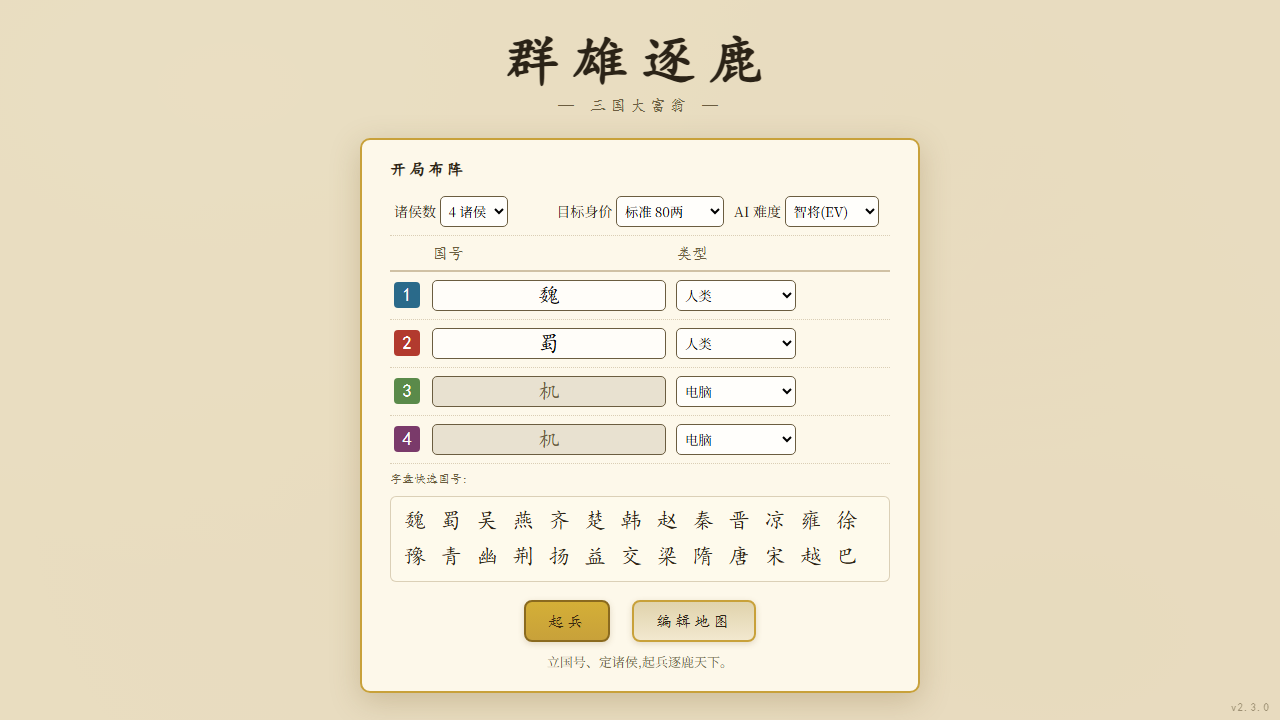
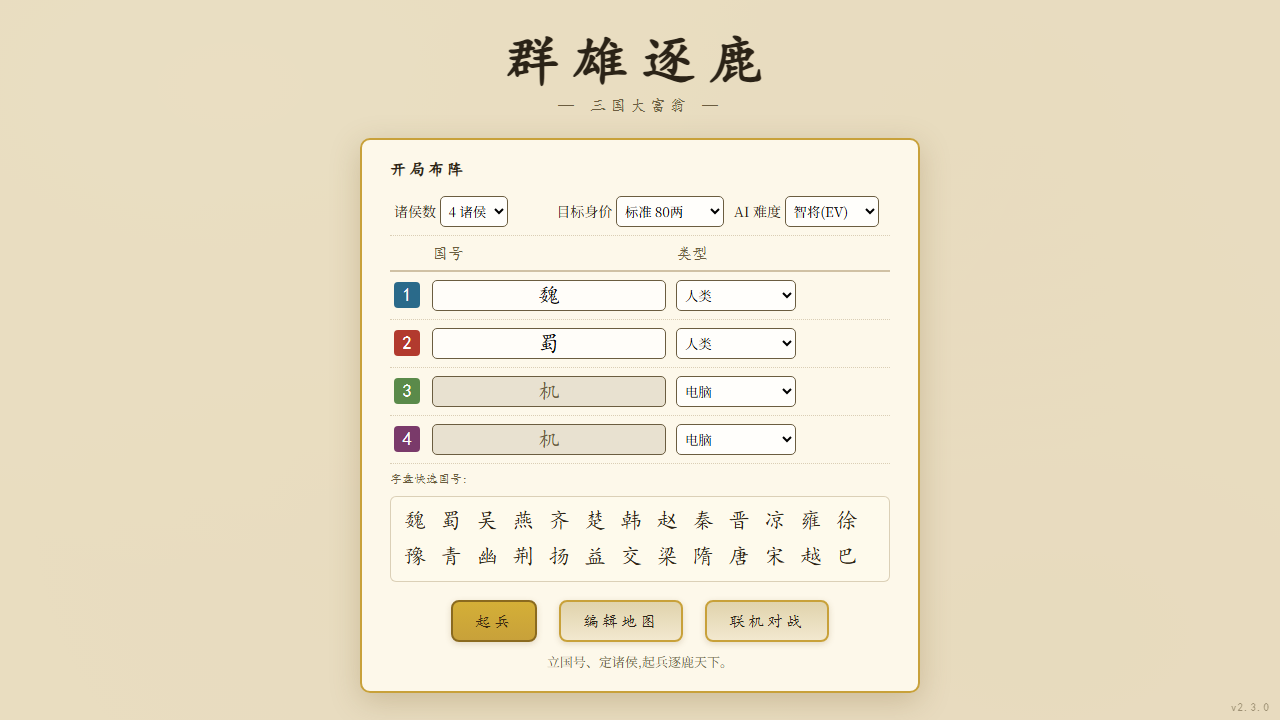
test(e2e): 联机 e2e + 联机入口非侵入化(任务 4.3)
- e2e/online.spec.ts:建房 vs bot → 开局 → 掷骰(snapshot 驱动渲染)+ REST 加入/FCFS 断言
- playwright.config:加引擎服务器为第二个 webServer(3010,托管 dist + WS)
- main.ts:撤掉模式选择屏(它会 gate 既有热座 e2e),改 ?online=1 直链 + 设置屏「联机对战」按钮
- ui.ts:createSetupScreen 加 onOnline 回调 + 按钮
- .gitignore:rooms/ tmp/;更新设置屏截图(新增联机按钮)

全 e2e 23 passed(21 热座 + 2 联机),无回归

Changed region(s): [[0.3438, 0.825, 0.6562, 0.9167]]

diff --git a/src/main.ts b/src/main.ts
@@ -1,11 +1,11 @@
-// 入口:加载样式 → 模式选择(热座 / 联机)→ 进入对局。
+// 入口:加载样式 → 显示开局设置屏 → 创建 App 进入对局。
+// 联机:设置屏「联机对战」按钮,或 URL ?online=1(便于 e2e / 直链)。
 import "./render/style.css";
 import { createSetupScreen } from "./render/ui";
 import { createEditor } from "./render/editor";
 import type { SetupResult } from "./render/ui";
 import { App } from "./render/state";
 import { NetworkClient } from "./render/network-client";
-import { el } from "./render/dom";
 import { VERSION } from "./version";
 import { loadMap } from "./core/board-loader";
 
@@ -20,7 +20,7 @@ verTag.style.cssText =
   "opacity:.6;font-family:var(--font-deco,serif);pointer-events:none;z-index:9999;letter-spacing:1px;";
 document.body.appendChild(verTag);
 
-/** 运行时 fetch 地图 JSON:改 public/maps/*.json 后刷新页面即生效,无需 rebuild。 */
+/** 运行时 Fetch 地图 JSON:改 public/maps/*.json 后刷新页面即生效,无需 rebuild。 */
 async function loadDefaultMap() {
   // 优先用编辑器保存的自定义地图;没有才用内置 sanguo.json
   const saved = localStorage.getItem("dafung-custom-map");
@@ -39,81 +39,77 @@ async function loadDefaultMap() {
   return loadMap(await res.json());
 }
 
-function bootstrap() {
-  root.innerHTML = "";
-  // 模式选择:热座(单设备轮流) / 联机(每人一设备,经服务器)
-  const hotseatBtn = el("button", { class: "btn btn-primary" }, ["热座(本地)"]) as HTMLButtonElement;
-  const onlineBtn = el("button", { class: "btn" }, ["联机(在线)"]) as HTMLButtonElement;
-  const overlay = el("div", { class: "scroll-overlay" }, [
-    el("div", { class: "scroll", style: "max-width:340px;text-align:center;" }, [
-      el("h2", { class: "scroll-title" }, ["群雄逐鹿"]),
-      el("p", { style: "color:var(--ink-dim,#9c6b3f);" }, ["选择对局模式"]),
-      el("div", { class: "choices", style: "flex-direction:column;gap:10px;" }, [hotseatBtn, onlineBtn]),
-    ]),
-  ]);
-  hotseatBtn.addEventListener("click", () => {
-    overlay.remove();
-    showHotseatSetup();
-  });
-  onlineBtn.addEventListener("click", async () => {
-    overlay.remove();
-    try {
-      const map = await loadDefaultMap();
-      root.innerHTML = "";
-      new NetworkClient(map, location.origin);
-    } catch (err) {
-      root.innerHTML = `<div style="padding:40px;color:#b23a2e;font-family:serif">地图加载失败:${(err as Error).message}</div>`;
-    }
-  });
-  root.appendChild(overlay);
+function mapLoadError(err: unknown) {
+  root.innerHTML = `<div style="padding:40px;color:#b23a2e;font-family:serif">地图加载失败:${(err as Error).message}</div>`;
 }
 
-function showHotseatSetup() {
-  root.innerHTML = "";
-  createSetupScreen(root, async (r: SetupResult) => {
+/** 进入联机:加载地图 → network-client(它自带 connect/lobby 屏)。 */
+async function enterOnline() {
+  try {
+    const map = await loadDefaultMap();
     root.innerHTML = "";
-    const seedParam = new URLSearchParams(location.search).get("seed");
-    const seed = seedParam ? parseInt(seedParam, 10) : undefined;
-    try {
-      const map = await loadDefaultMap();
-      new App({
-        seats: r.seats,
-        targetNetWorth: r.targetNetWorth,
-        startingCash: r.startingCash,
-        difficulty: r.difficulty,
-        seed,
-        map,
-      });
-    } catch (err) {
-      root.innerHTML = `<div style="padding:40px;color:#b23a2e;font-family:serif">地图加载失败:${(err as Error).message}</div>`;
-    }
-  },
-  // 「编辑地图」入口:加载内置地图 JSON 进入编辑器
-  async () => {
-    try {
-      const saved = localStorage.getItem("dafung-custom-map");
-      const data = saved ? JSON.parse(saved) : await (await fetch("/maps/sanguo.json")).json();
-      createEditor(root, data, () => bootstrap(), async (mapData) => {
-        try {
-          root.innerHTML = "";
-          new App({
-            seats: [
-              { name: "诸侯1", isBot: false, guohao: "魏" },
-              { name: "诸侯2", isBot: true },
-            ],
-            targetNetWorth: mapData.targetNetWorth,
-            startingCash: mapData.startingCash,
-            difficulty: "Normal",
-            map: loadMap(mapData),
-          });
-        } catch (err) {
-          root.innerHTML = `<div style="padding:40px;color:#b23a2e;font-family:serif">地图加载失败:${(err as Error).message}</div>`;
-        }
-      });
-    } catch (err) {
-      root.innerHTML = `<div style="padding:40px;color:#b23a2e;font-family:serif">地图加载失败:${(err as Error).message}</div>`;
-    }
-  });
+    new NetworkClient(map, location.origin);
+  } catch (err) {
+    mapLoadError(err);
+  }
+}
+
+function bootstrap() {
+  root.innerHTML = "";
+  // 直链 / e2e:?online=1 跳过设置屏直接联机
+  if (new URLSearchParams(location.search).has("online")) {
+    void enterOnline();
+    return;
+  }
+  createSetupScreen(
+    root,
+    async (r: SetupResult) => {
+      root.innerHTML = "";
+      const seedParam = new URLSearchParams(location.search).get("seed");
+      const seed = seedParam ? parseInt(seedParam, 10) : undefined;
+      try {
+        const map = await loadDefaultMap();
+        new App({
+          seats: r.seats,
+          targetNetWorth: r.targetNetWorth,
+          startingCash: r.startingCash,
+          difficulty: r.difficulty,
+          seed,
+          map,
+        });
+      } catch (err) {
+        mapLoadError(err);
+      }
+    },
+    // 「编辑地图」入口:加载内置地图 JSON 进入编辑器
+    async () => {
+      try {
+        const saved = localStorage.getItem("dafung-custom-map");
+        const data = saved ? JSON.parse(saved) : await (await fetch("/maps/sanguo.json")).json();
+        createEditor(root, data, () => bootstrap(), async (mapData) => {
+          try {
+            root.innerHTML = "";
+            new App({
+              seats: [
+                { name: "诸侯1", isBot: false, guohao: "魏" },
+                { name: "诸侯2", isBot: true },
+              ],
+              targetNetWorth: mapData.targetNetWorth,
+              startingCash: mapData.startingCash,
+              difficulty: "Normal",
+              map: loadMap(mapData),
+            });
+          } catch (err) {
+            mapLoadError(err);
+          }
+        });
+      } catch (err) {
+        mapLoadError(err);
+      }
+    },
+    // 「联机对战」按钮
+    () => void enterOnline(),
+  );
 }
 
 bootstrap();

diff --git a/e2e/online.spec.ts b/e2e/online.spec.ts
@@ -1,0 +1,59 @@
+// 联机 e2e:启动引擎服务器(3010,托管 dist + WS)→ 浏览器走 建房→开局→掷骰。
+// 锁定 network-client ↔ server 的回归(snapshot 驱动渲染 + WS 命令往返)。
+import { test, expect } from "@playwright/test";
+
+// 引擎服务器(见 playwright.config.ts 第二个 webServer)。
+const ONLINE = "http://localhost:3010";
+
+test("联机:建房 vs bot → 开局 → 掷骰,snapshot 驱动渲染", async ({ page }) => {
+  await page.goto(ONLINE + "/?online=1");
+
+  // 建房:2 座,seat 1 为 bot(单人 vs bot)
+  await page.getByPlaceholder("bot 座位号,逗号分隔(如 1,2)").fill("1");
+  await page.getByRole("button", { name: "建房" }).click();
+
+  // 进大厅:房间码 + 开局按钮
+  await expect(page.getByRole("heading", { name: "大厅" })).toBeVisible();
+  await page.getByRole("button", { name: "开局" }).click();
+
+  // 开局后:autoSetup(选都)+ 可能的 bot 先手,都由服务器逐步广播;最终轮到我(行军启用)
+  const rollBtn = page.getByRole("button", { name: "行军" });
+  await expect(rollBtn).toBeEnabled({ timeout: 20_000 });
+
+  // 行军前先记一下战报条数,用于断言"掷骰后战报增长"
+  const warlogBefore = await page.locator("#warlog").textContent();
+
+  await rollBtn.click();
+
+  // 我的掷骰命令 → 服务器处理 → snapshot 回流 → 签面显示点数(一..六)
+  await expect(page.locator("#dice-face")).toHaveText(/[一二三四五六]/, { timeout: 10_000 });
+
+  // 战报增长了(我的抽签记录 + 可能的落格/bot 回合)
+  await expect(page.locator("#warlog")).not.toHaveText(warlogBefore ?? "", { timeout: 10_000 });
+
+  // 诸侯卡至少显示了一座都城(开局选都完成):玩家卡 meta 含"都"+ 某城名而非"都—"
+  await expect(page.locator("#players")).toContainText(/都(?!—)/, { timeout: 10_000 });
+});
+
+test("联机:房间码拉起第二位玩家(模拟加入)", async ({ request }) => {
+  // 直接打 REST:建房 → 加入,校验 seatToken/FCFS 占座语义(ADR-0004/0005)
+  const created = await request.post(ONLINE + "/room/new", { data: { seats: 3, bot: "2", seed: 7 } });
+  expect(created.ok()).toBeTruthy();
+  const c = await created.json();
+  expect(c.roomId).toMatch(/^[A-Z]{4}$/);
+  expect(c.seat).toBe(0);
+  expect(c.seatToken).toBeTruthy();
+  expect(c.seats).toHaveLength(3);
+  expect(c.seats[0].taken).toBe(true); // host 已占
+  expect(c.seats[2].kind).toBe("bot");
+
+  // 加入 → 占 seat 1
+  const joined = await request.post(ONLINE + "/room/join", { data: { roomId: c.roomId } });
+  const j = await joined.json();
+  expect(j.seat).toBe(1);
+  expect(j.seatToken).toBeTruthy();
+
+  // 再加入 → 房间满(只剩 seat 1,已占)→ 409
+  const full = await request.post(ONLINE + "/room/join", { data: { roomId: c.roomId } });
+  expect(full.status()).toBe(409);
+});

diff --git a/src/render/ui.ts b/src/render/ui.ts
@@ -277,7 +277,7 @@ export interface SetupResult {
   difficulty: "Simple" | "Normal";
 }
 
-export function createSetupScreen(parent: HTMLElement, onStart: (r: SetupResult) => void, onEdit?: () => void): void {
+export function createSetupScreen(parent: HTMLElement, onStart: (r: SetupResult) => void, onEdit?: () => void, onOnline?: () => void): void {
   const screen = el("div", { class: "setup-screen" });
   const card = el("div", { class: "setup-card" });
 
@@ -370,6 +370,8 @@ export function createSetupScreen(parent: HTMLElement, onStart: (r: SetupResult)
   const startBtn = el("button", { class: "btn btn-primary", id: "start-btn" }, ["起兵"]) as HTMLButtonElement;
   const editBtn = el("button", { class: "btn", id: "edit-btn", style: "margin-left:10px" }, ["编辑地图"]) as HTMLButtonElement;
   editBtn.addEventListener("click", () => onEdit?.());
+  const onlineBtn = onOnline ? (el("button", { class: "btn", id: "online-btn", style: "margin-left:10px" }, ["联机对战"]) as HTMLButtonElement) : null;
+  onlineBtn?.addEventListener("click", () => onOnline?.());
 
   card.appendChild(el("h3", { style: "font-family:var(--font-deco);font-size:16px;margin:0 0 10px;letter-spacing:3px;" }, ["开局布阵"]));
   card.appendChild(
@@ -387,7 +389,7 @@ export function createSetupScreen(parent: HTMLElement, onStart: (r: SetupResult)
   card.appendChild(seatsBox);
   card.appendChild(el("div", { style: "font-size:12px;color:var(--ink-dim);margin:8px 0 2px;font-family:var(--font-deco);" }, ["字盘快选国号:"]));
   card.appendChild(pool);
-  card.appendChild(el("div", { class: "setup-actions" }, [startBtn, editBtn]));
+  card.appendChild(el("div", { class: "setup-actions" }, onlineBtn ? [startBtn, editBtn, onlineBtn] : [startBtn, editBtn]));
   card.appendChild(hint);
 
   startBtn.addEventListener("click", () => {

diff --git a/playwright.config.ts b/playwright.config.ts
@@ -28,10 +28,26 @@ export default defineConfig({
       },
     },
   ],
-  webServer: {
-    command: "npm run serve:e2e",
-    url: "http://localhost:4173",
-    reuseExistingServer: !process.env.CI,
-    timeout: 120_000,
-  },
+  // 两个 webServer:热座用 vite preview(纯静态 4173);联机用引擎服务器(托管 dist + WS,3010)。
+  // 两者都需要先 npm run build 产出 dist/。
+  webServer: [
+    {
+      command: "npm run serve:e2e",
+      url: "http://localhost:4173",
+      reuseExistingServer: !process.env.CI,
+      timeout: 120_000,
+    },
+    {
+      command: "npm run serve",
+      url: "http://localhost:3010/health",
+      reuseExistingServer: !process.env.CI,
+      timeout: 120_000,
+      env: {
+        STATIC_DIR: "./dist",
+        ROOMS_DIR: "./tmp/e2e-rooms",
+        PORT: "3010",
+        HOST: "127.0.0.1",
+      },
+    },
+  ],
 });
